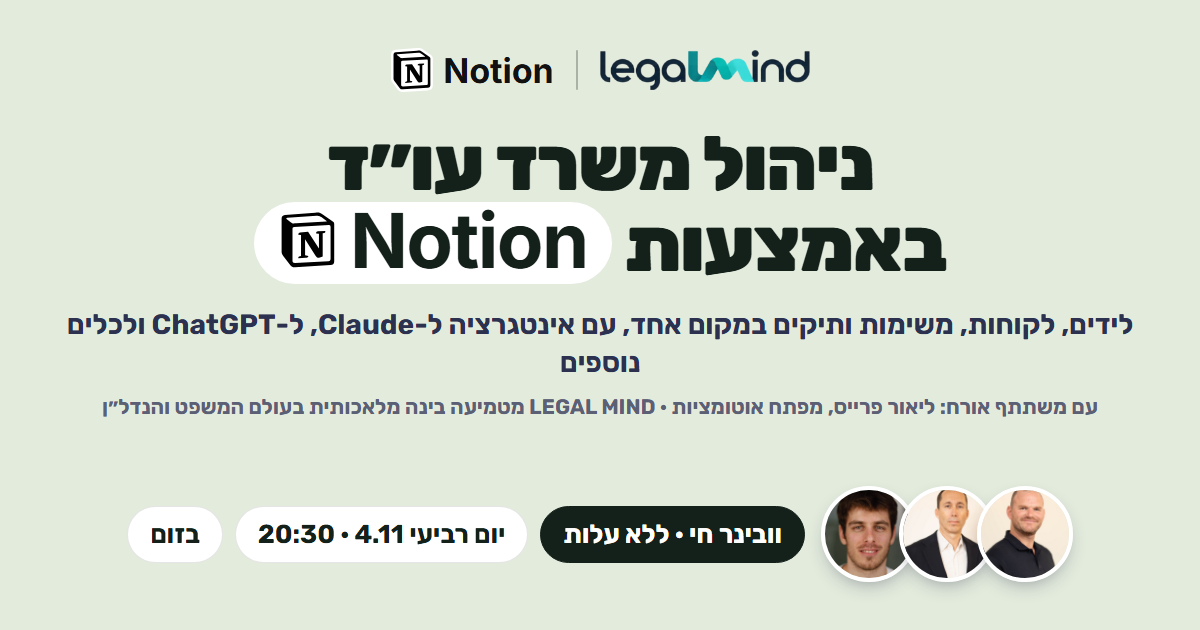
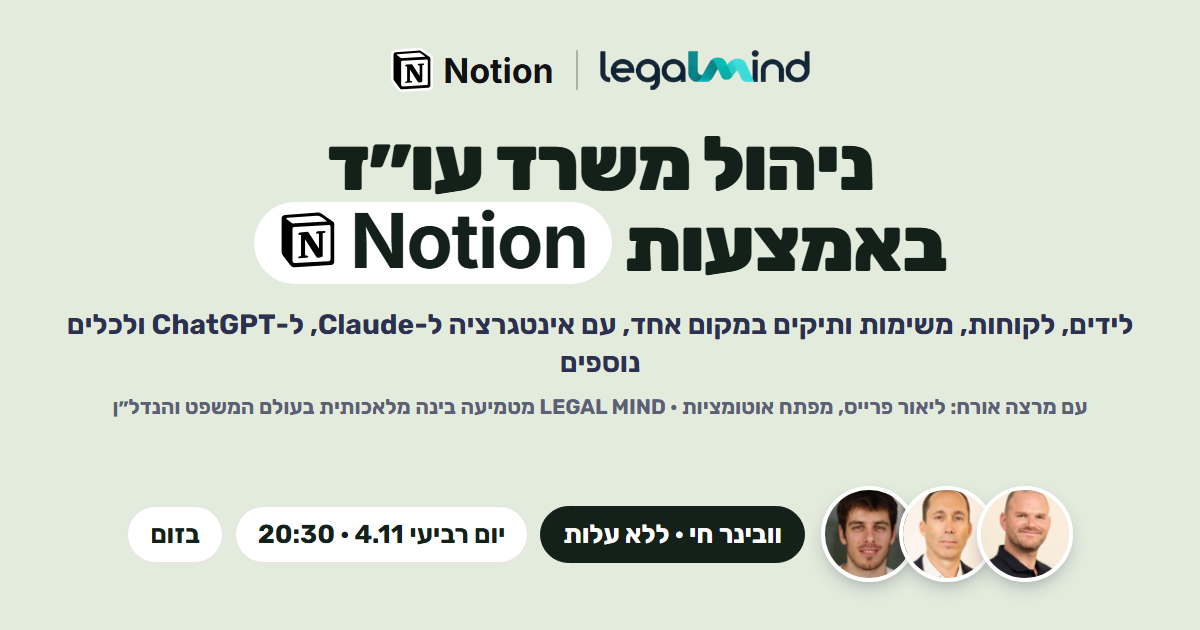
Notion webinar: Lior is a guest lecturer (מרצה אורח) on page, thanks page and share image

Changed region(s): [[0.0617, 0.6333, 0.925, 0.6635], [0.74, 0.754, 0.8942, 0.9349]]

diff --git a/notion-webinar/index.html b/notion-webinar/index.html
@@ -8,7 +8,7 @@
 <meta property="og:title" content="ניהול משרד עו״ד באמצעות Notion">
 <meta property="og:description" content="וובינר חי וללא עלות של LEGAL MIND · יום רביעי 4.11.2026 · 20:30 · בזום">
 <meta property="og:type" content="website">
-<meta property="og:image" content="https://www.legalmind.co.il/notion-webinar/assets/og.png?v=2">
+<meta property="og:image" content="https://www.legalmind.co.il/notion-webinar/assets/og.png?v=3">
 <meta property="og:image:width" content="1200"><meta property="og:image:height" content="630">
 <meta name="twitter:card" content="summary_large_image">
 <meta name="theme-color" content="#E3EBDD">
@@ -517,7 +517,7 @@ footer{padding:clamp(36px,4.5vw,60px) 0 40px;overflow:hidden}
       <div class="cards-layer">
         <div class="photo-card pc1"><img src="/notion-webinar/assets/asaf-l.jpg?v=2" alt="" width="720" height="900"><b>עו״ד אסף אברמזון</b><small>מייסד שותף ומנכ״ל <span class="nw">LEGAL MIND</span></small></div>
         <div class="photo-card pc2"><img src="/notion-webinar/assets/roi-l.jpg?v=2" alt="" width="720" height="900"><b>עו״ד רועי נימצוביץ׳</b><small>מייסד שותף ב-<span class="nw">LEGAL MIND</span></small></div>
-        <div class="photo-card pc3"><img src="/notion-webinar/assets/lior-l.jpg" alt="" width="720" height="900"><b>ליאור פרייס</b><small>מפתח אוטומציות</small><span class="gst">משתתף אורח</span></div>
+        <div class="photo-card pc3"><img src="/notion-webinar/assets/lior-l.jpg" alt="" width="720" height="900"><b>ליאור פרייס</b><small>מפתח אוטומציות</small><span class="gst">מרצה אורח</span></div>
       </div>
     </div>
   </div>
@@ -595,7 +595,7 @@ footer{padding:clamp(36px,4.5vw,60px) 0 40px;overflow:hidden}
       <article class="host rv" style="--d:.2s"><div class="ph"><img src="/notion-webinar/assets/roi-l.jpg?v=2" alt="עו״ד רועי נימצוביץ׳" width="720" height="900" loading="lazy"></div>
         <h3>עו״ד רועי נימצוביץ׳</h3><p>מייסד שותף ב-<bdi>LEGAL MIND</bdi>.&rlm; בעל ניסיון של מעל 20 שנה בעסקאות מורכבות, פיננסים וליטיגציה.</p></article>
       <article class="host rv" style="--d:.3s"><div class="ph"><img src="/notion-webinar/assets/lior-l.jpg" alt="ליאור פרייס" width="720" height="900" loading="lazy"></div>
-        <h3>ליאור פרייס</h3><p>מפתח אוטומציות. יציג מערכת לניהול משרד עו״ד ב-Notion ואת האוטומציות שמחברות אותה לכלים.</p><span class="gst">משתתף אורח</span></article>
+        <h3>ליאור פרייס</h3><p>מפתח אוטומציות. יציג מערכת לניהול משרד עו״ד ב-Notion ואת האוטומציות שמחברות אותה לכלים.</p><span class="gst">מרצה אורח</span></article>
     </div>
   </div>
 </section>

diff --git a/notion-webinar/thanks/index.html b/notion-webinar/thanks/index.html
@@ -111,7 +111,7 @@ footer{color:#5B6075}
   <section class="card" aria-labelledby="h">
     <span class="eyebrow"><i class="dot" aria-hidden="true"></i>ההרשמה הושלמה</span>
     <h1 id="h">נרשמתם, והמקום שלכם שמור 🎉</h1>
-    <p class="lead">תודה שנרשמתם לוובינר <strong>"ניהול משרד עו״ד באמצעות Notion"</strong> של LEGAL MIND, עם עו״ד אסף אברמזון, עו״ד רועי נימצוביץ׳, ומשתתף אורח: ליאור פרייס, מפתח אוטומציות.</p>
+    <p class="lead">תודה שנרשמתם לוובינר <strong>"ניהול משרד עו״ד באמצעות Notion"</strong> של LEGAL MIND, עם עו״ד אסף אברמזון, עו״ד רועי נימצוביץ׳, ומרצה אורח: ליאור פרייס, מפתח אוטומציות.</p>
     <ul class="when">
       <li><svg viewBox="0 0 24 24" fill="none" stroke="currentColor" stroke-width="2" stroke-linecap="round" stroke-linejoin="round"><rect x="3" y="4" width="18" height="18" rx="2"/><line x1="16" y1="2" x2="16" y2="6"/><line x1="8" y1="2" x2="8" y2="6"/><line x1="3" y1="10" x2="21" y2="10"/></svg><span>יום רביעי 4.11.2026 · 20:30</span></li>
       <li><svg viewBox="0 0 24 24" fill="none" stroke="currentColor" stroke-width="2" stroke-linecap="round" stroke-linejoin="round"><polygon points="23 7 16 12 23 17 23 7"/><rect x="1" y="5" width="15" height="14" rx="2"/></svg><span>בזום</span></li>
